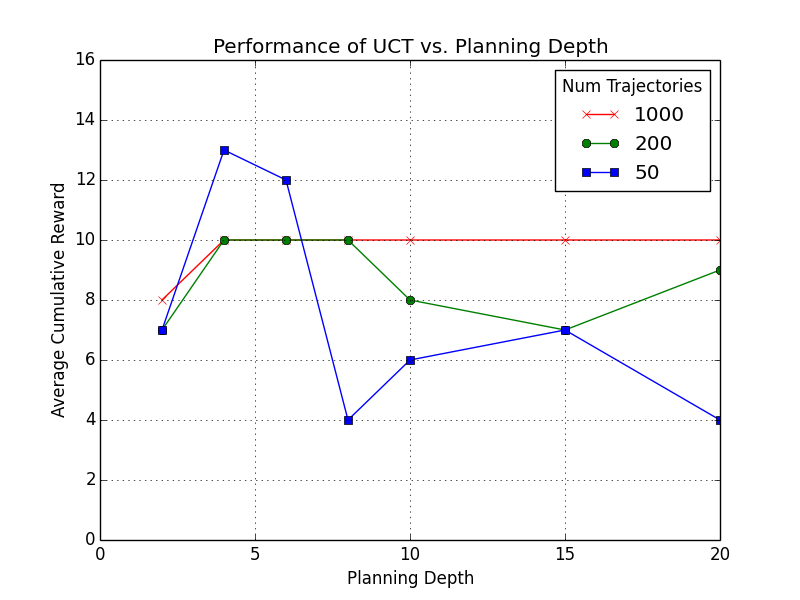
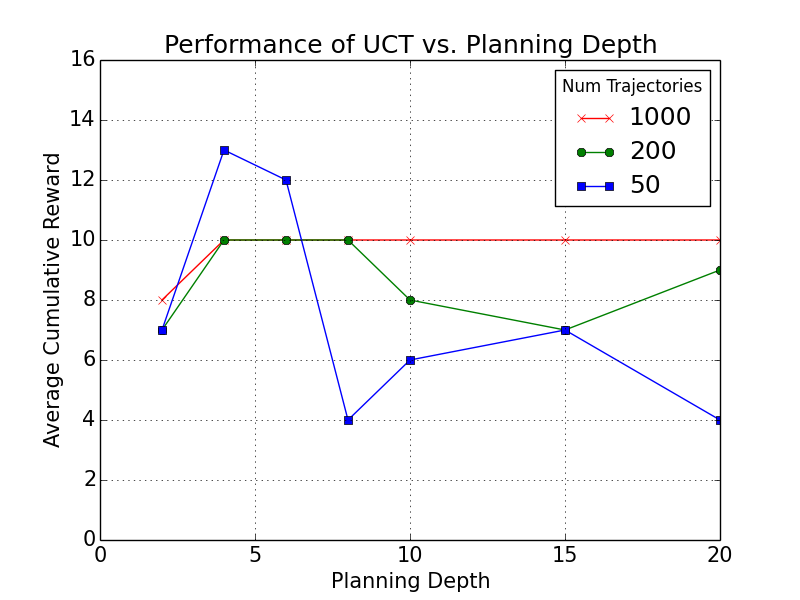
figs update

diff --git a/daveAndEllisWriteup/writeup.tex b/daveAndEllisWriteup/writeup.tex
@@ -10,6 +10,7 @@
 \makeatother					% Make '@' special again.
 \usepackage{fullpage}
 \usepackage{graphicx}
+\usepackage{subfigure}
 %==============================================================================
 % Title.
 %==============================================================================
@@ -40,9 +41,11 @@ The state space is fully observable to the agent except the goodness of rocks --
 \begin{figure}[h]
 \label{fig: RockSample}
 \centering
-\includegraphics[page=1,width=.46\textwidth]{rock_sample_domain.png} \\
+\includegraphics[page=1,width=.42\textwidth]{rock_sample_domain.png} \\
 \caption{An example rock sample domain}
 \end{figure}
+
+
 
 % Section: Randomized MDPs
 \subsection{Randomized MDPs}
@@ -72,22 +75,29 @@ Summary of their results, summary of our results.
 \subsection{Cross validation with RandomMDP}
 
 \begin{figure}
-$$\begin{tabular}{cc}
-	\includegraphics[page=1,width=.5\textwidth]{../results/figure_2.pdf} &
-	\includegraphics[page=1,width=.41\textwidth]{../results/originalCV.pdf}\\
-	our results & their results \\
-\end{tabular}$$
+\centering
+\subfigure[Our results]{
+\includegraphics[page=1,width=.45\textwidth]{../results/figure_2.pdf}}
+\hspace{4mm}
+\subfigure[Their results]{
+\includegraphics[page=1,width=.35\textwidth]{../results/originalCV.pdf}}
+\caption{A comparison of our results and their results for Random MDP Experiments.}
 \end{figure}
+
+
+
 
 \subsection{UCT Performance vs. Planning Depth on Rock Sample}
 
-$$\begin{tabular}{cc}
-	\includegraphics[page=1,width=.50\textwidth]{../results/rock_sample_results.png} &
-	\includegraphics[page=1,width=.46\textwidth]{../results/figure_6.png} \\
-	our results & their results \\
-\end{tabular}$$
-
-
+\begin{figure}
+\centering
+\subfigure[Our results]{
+\includegraphics[page=1,width=.47\textwidth]{../results/rock_sample_results.png}}
+\hspace{1mm}
+\subfigure[Their results]{
+\includegraphics[page=1,width=.42\textwidth]{../results/figure_6.png}}
+\caption{A comparison of our results and their results for UCT Experiments.}
+\end{figure}
 
 
 % --- SECTION: Reproducibility Discussion ---

diff --git a/plots/python/dave_plotting.py b/plots/python/dave_plotting.py
@@ -1,4 +1,5 @@
 import matplotlib.pyplot as plt
+import matplotlib
 import numpy as np
 
 # 50 Trajectories
@@ -15,7 +16,10 @@ plt.plot(xData, fiftyTrajData, label="50", marker="s", color="blue")
 
 plt.legend(title="Num Trajectories")
 
+font = {'family' : 'normal',
+        'size'   : 15}
 
+matplotlib.rc('font', **font)
 plt.xlim([0,20])
 plt.ylim([0,16])
 plt.xlabel('Planning Depth')
